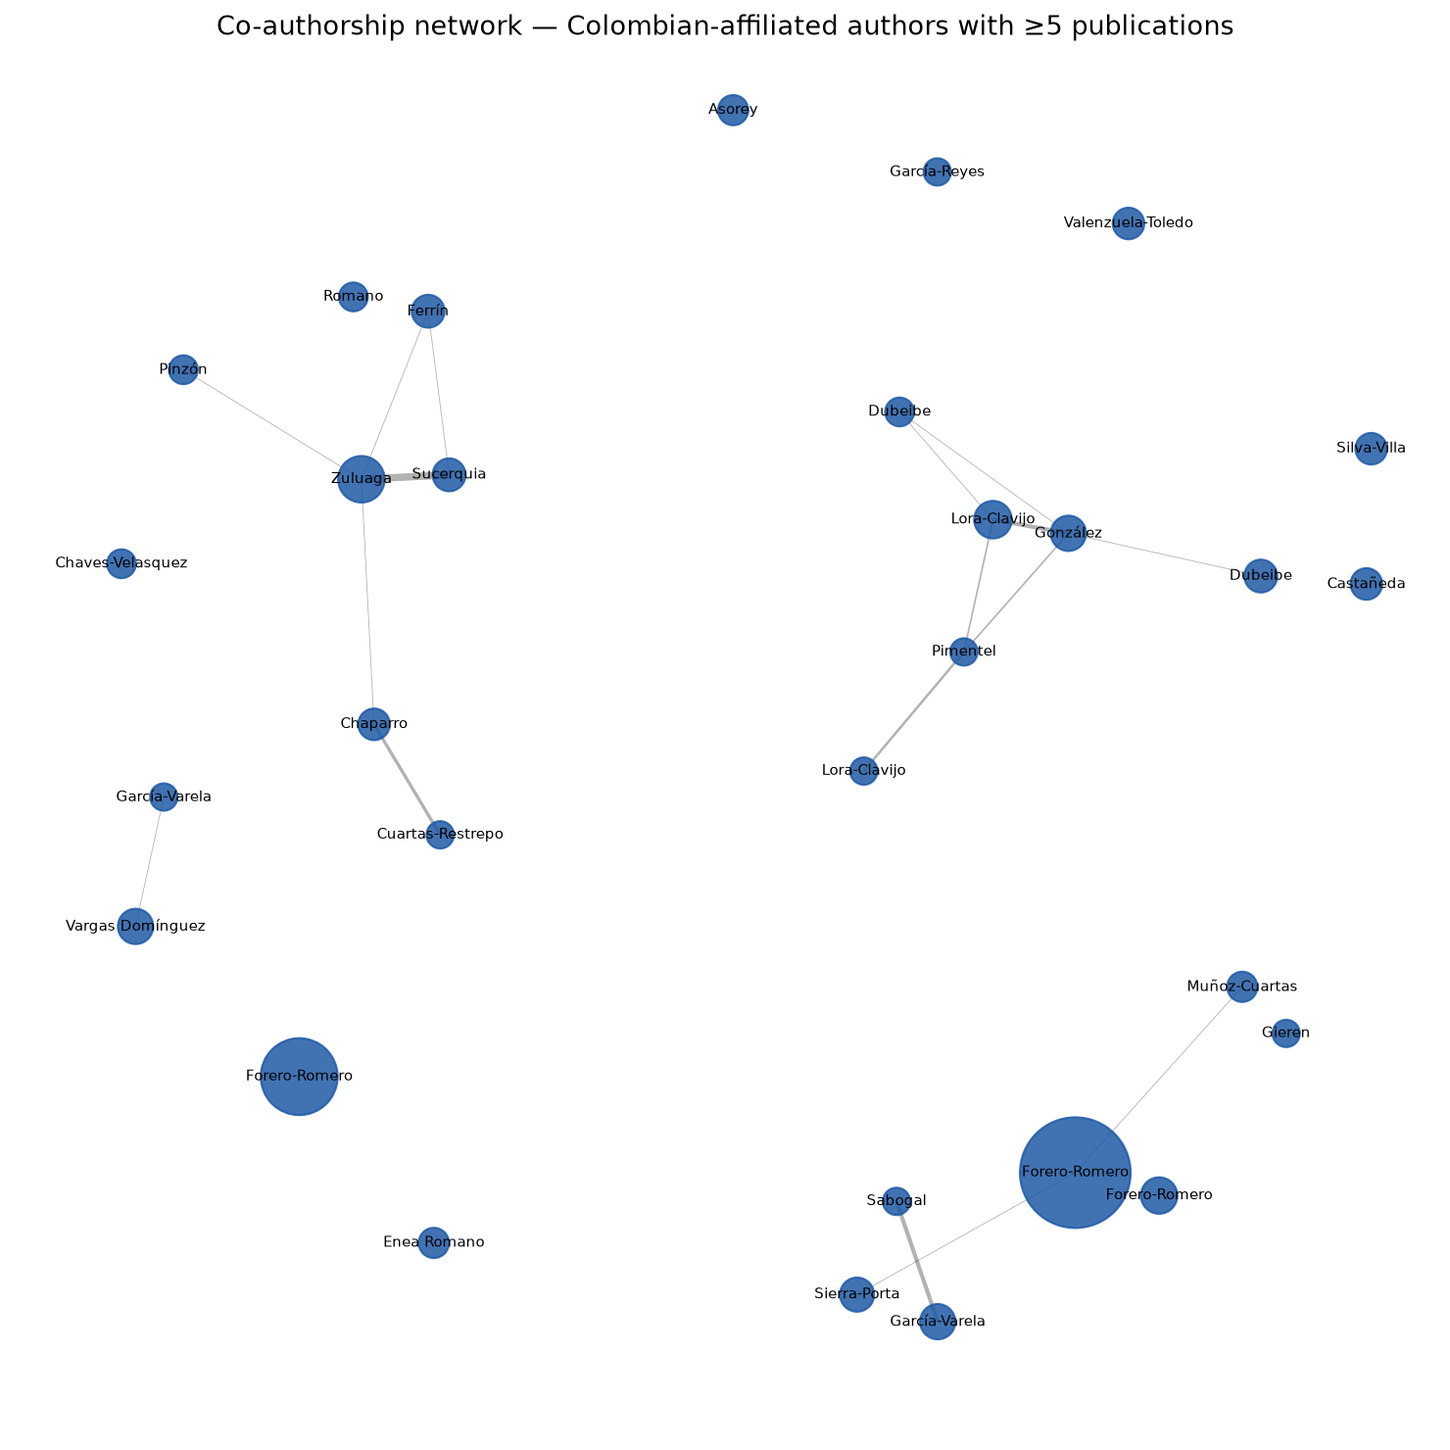
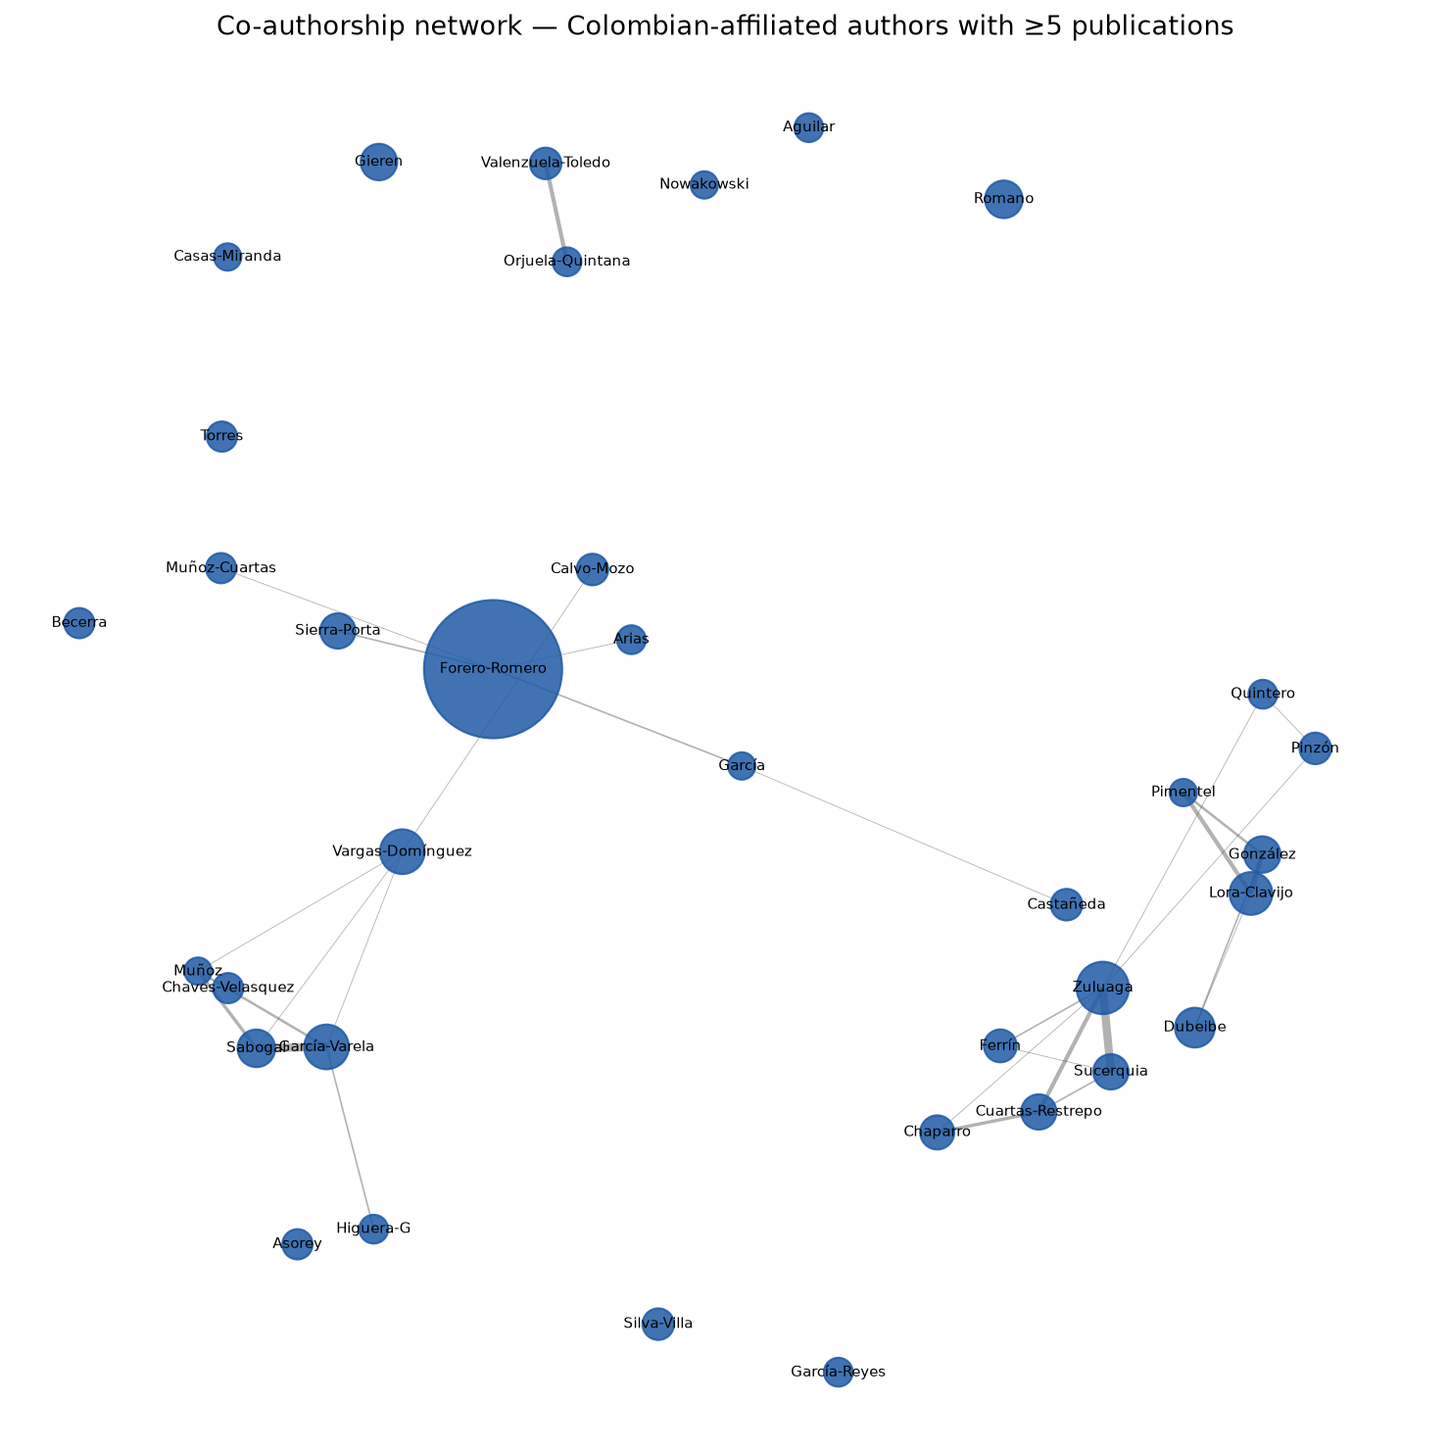
Merge ADS author-name variants that refer to the same person
Adds src/name_matching.py: a heuristic clustering of author-name strings,
scoped to Colombian-affiliated authorships, that merges records differing
only in given-name detail ("Forero-Romero, J. E." vs. "Forero-Romero, Jaime
E."), metadata typos ("Jamie E." vs. "Jaime E."), and inconsistent
compound-surname splits ("Enea Romano, Antonio" vs. "Romano, Antonio Enea").

Wires the resulting canonical names into the top-authors figure/table, the
institutions table's unique-author counts, and the co-authorship network,
which previously showed the same person as several disconnected nodes.

diff --git a/src/plots.py b/src/plots.py
@@ -20,6 +20,8 @@ import networkx as nx
 import numpy as np
 import pandas as pd
 
+from name_matching import build_canonical_name_map
+
 ROOT = Path(__file__).resolve().parent.parent
 PROCESSED = ROOT / "data" / "processed"
 FIG_DIR = ROOT / "output" / "figures"
@@ -40,6 +42,15 @@ plt.rcParams.update(
 def load_data() -> tuple[pd.DataFrame, pd.DataFrame]:
     pubs = pd.read_csv(PROCESSED / "publications.csv")
     authors = pd.read_csv(PROCESSED / "authorships.csv")
+
+    # Merge ADS name-string variants ("Forero-Romero, J. E." / "Forero-Romero,
+    # Jaime E.") that refer to the same person -- see name_matching.py. Only
+    # done among Colombian-affiliated authorships, since that's the subset
+    # used for author-level rankings and the co-authorship network.
+    colombian_names = authors.loc[authors["is_colombian"], "author"].tolist()
+    canonical_map = build_canonical_name_map(colombian_names)
+    authors["author_canonical"] = authors["author"].map(lambda n: canonical_map.get(n, n))
+
     return pubs, authors
 
 
@@ -217,7 +228,11 @@ def fig_top_authors(authors: pd.DataFrame, top_n: int = 20) -> pd.DataFrame:
     # dominated by non-Colombian members of huge international collaborations
     # (DESI, LIGO/Virgo/KAGRA) that a Colombian-affiliated author also belongs to.
     colombian = authors[authors["is_colombian"]]
-    counts = colombian.groupby("author")["bibcode"].nunique().sort_values(ascending=False)
+    counts = (
+        colombian.groupby("author_canonical")["bibcode"]
+        .nunique()
+        .sort_values(ascending=False)
+    )
     top = counts.head(top_n)
 
     fig, ax = plt.subplots(figsize=(8, 7))
@@ -270,7 +285,7 @@ def fig_top_keywords(pubs: pd.DataFrame, top_n: int = 25) -> pd.DataFrame:
 def fig_coauthorship_network(authors: pd.DataFrame, min_pubs: int = 5) -> None:
     """Co-authorship network among prolific, Colombian-affiliated authors."""
     colombian = authors[authors["is_colombian"]]
-    pub_counts = colombian.groupby("author")["bibcode"].nunique()
+    pub_counts = colombian.groupby("author_canonical")["bibcode"].nunique()
     core_authors = set(pub_counts[pub_counts >= min_pubs].index)
     if len(core_authors) < 2:
         return
@@ -279,9 +294,9 @@ def fig_coauthorship_network(authors: pd.DataFrame, min_pubs: int = 5) -> None:
     for author, n in pub_counts[pub_counts >= min_pubs].items():
         g.add_node(author, n_pubs=int(n))
 
-    subset = colombian[colombian["author"].isin(core_authors)]
+    subset = colombian[colombian["author_canonical"].isin(core_authors)]
     for _, group in subset.groupby("bibcode"):
-        coauthors = list(dict.fromkeys(group["author"]))
+        coauthors = list(dict.fromkeys(group["author_canonical"]))
         for i in range(len(coauthors)):
             for j in range(i + 1, len(coauthors)):
                 a, b = coauthors[i], coauthors[j]
@@ -321,7 +336,7 @@ def table_institutions(authors: pd.DataFrame, pubs: pd.DataFrame, top_n: int = 2
     ]
     grouped = colombian.groupby("institution").agg(
         n_publications=("bibcode", "nunique"),
-        n_unique_authors=("author", "nunique"),
+        n_unique_authors=("author_canonical", "nunique"),
     )
     merged = colombian.merge(pubs[["bibcode", "year", "num_citations"]], on="bibcode")
     years = merged.groupby("institution")["year"].agg(first_year="min", last_year="max")
@@ -377,18 +392,20 @@ def table_top_authors(authors: pd.DataFrame, pubs: pd.DataFrame, top_n: int = 25
     colombian = authors[authors["is_colombian"]]
     merged = colombian.merge(pubs[["bibcode", "year", "num_citations"]], on="bibcode")
 
-    grouped = merged.groupby("author").agg(
+    grouped = merged.groupby("author_canonical").agg(
         n_publications=("bibcode", "nunique"),
         first_year=("year", "min"),
         last_year=("year", "max"),
     )
     # Total citations, counted once per unique publication per author.
-    per_pub = merged.drop_duplicates(["author", "bibcode"])
-    total_citations = per_pub.groupby("author")["num_citations"].sum().rename("total_citations")
+    per_pub = merged.drop_duplicates(["author_canonical", "bibcode"])
+    total_citations = (
+        per_pub.groupby("author_canonical")["num_citations"].sum().rename("total_citations")
+    )
 
     primary_inst = (
         merged[merged["institution"].notna()]
-        .groupby("author")["institution"]
+        .groupby("author_canonical")["institution"]
         .agg(lambda s: s.value_counts().idxmax() if len(s) else None)
         .rename("primary_institution")
     )
@@ -398,7 +415,7 @@ def table_top_authors(authors: pd.DataFrame, pubs: pd.DataFrame, top_n: int = 25
         .sort_values("n_publications", ascending=False)
         .head(top_n)
         .reset_index()
-        .rename(columns={"author": "Author"})
+        .rename(columns={"author_canonical": "Author"})
     )
     table["primary_institution"] = table["primary_institution"].fillna("")
     table["total_citations"] = table["total_citations"].fillna(0).astype(int)
@@ -426,7 +443,7 @@ def table_summary(pubs: pd.DataFrame, authors: pd.DataFrame) -> None:
         "Total publications": len(pubs),
         "Year range": f"{int(pubs['year'].min())}–{int(pubs['year'].max())}",
         "Total unique authors": authors["author"].nunique(),
-        "Unique authors with a Colombian affiliation": colombian["author"].nunique(),
+        "Unique authors with a Colombian affiliation": colombian["author_canonical"].nunique(),
         "Unique journals": pubs["journal"].nunique(),
         "Unique Colombian institutions identified": colombian.loc[
             colombian["institution"] != "Other Colombian institution", "institution"

diff --git a/src/name_matching.py b/src/name_matching.py
@@ -1,0 +1,134 @@
+"""Heuristic merging of ADS author-name variants that refer to the same person.
+
+ADS author strings for the same person vary in how much of the given name is
+spelled out -- "Forero-Romero, J. E.", "Forero-Romero, Jaime E.",
+"Forero-Romero, Jaime" -- and occasionally carry a typo in the source
+metadata ("Jamie E." for "Jaime E."). There is no author-id (ORCID) in this
+export to disambiguate properly, so this uses a standard bibliometric
+heuristic instead: two name strings are merged when they share the same
+(accent-stripped) surname and one's initials are a prefix of the other's.
+This is conservative by construction (it never merges different surnames or
+conflicting initials) but can still occasionally over-merge two different
+people who share a surname and have only an initial on record, or
+under-merge someone who publishes under two different surname spellings.
+"""
+from __future__ import annotations
+
+import unicodedata
+from collections import defaultdict
+
+
+def _strip_accents(text: str) -> str:
+    decomposed = unicodedata.normalize("NFKD", text)
+    return "".join(c for c in decomposed if not unicodedata.combining(c))
+
+
+def _split_name(name: str) -> tuple[str, str]:
+    surname, _, given = name.partition(",")
+    return surname.strip(), given.strip()
+
+
+def _normalize_surname(surname: str) -> str:
+    surname = _strip_accents(surname).lower()
+    surname = surname.replace("-", " ").replace(".", " ")
+    return " ".join(surname.split())
+
+
+def _initials(given: str) -> str:
+    given = _strip_accents(given).upper()
+    words = given.replace("-", " ").replace(".", " ").split()
+    return "".join(w[0] for w in words if w)
+
+
+def _full_word_tokens(name: str) -> frozenset[str]:
+    """Spelled-out (non-initial) name words, regardless of surname/given split.
+
+    Catches compound-surname records where ADS puts a different split point
+    each time -- e.g. "Enea Romano, Antonio" (surname "Enea Romano") vs.
+    "Romano, Antonio Enea" (surname "Romano" only) both yield
+    {enea, romano, antonio}.
+    """
+    surname, given = _split_name(name)
+    text = _strip_accents(f"{surname} {given}").lower()
+    words = text.replace("-", " ").replace(".", " ").split()
+    return frozenset(w for w in words if len(w) > 1)
+
+
+class _UnionFind:
+    def __init__(self, items: list[str]) -> None:
+        self.parent = {item: item for item in items}
+
+    def find(self, x: str) -> str:
+        while self.parent[x] != x:
+            self.parent[x] = self.parent[self.parent[x]]
+            x = self.parent[x]
+        return x
+
+    def union(self, a: str, b: str) -> None:
+        ra, rb = self.find(a), self.find(b)
+        if ra != rb:
+            self.parent[ra] = rb
+
+
+def build_canonical_name_map(names: list[str]) -> dict[str, str]:
+    """Map each raw author-name string to a canonical name for its cluster.
+
+    Names are grouped by normalized surname, then unioned within each group
+    when one's initials are a prefix of the other's. The canonical name for
+    a cluster is its member with the most fully spelled-out given name.
+    """
+    unique_names = list(dict.fromkeys(names))
+    parsed = {name: _split_name(name) for name in unique_names}
+
+    by_surname: dict[str, list[str]] = defaultdict(list)
+    for name, (surname, _) in parsed.items():
+        by_surname[_normalize_surname(surname)].append(name)
+
+    uf = _UnionFind(unique_names)
+    for group in by_surname.values():
+        keyed = [(name, _initials(parsed[name][1])) for name in group]
+        for i in range(len(keyed)):
+            name_a, initials_a = keyed[i]
+            for j in range(i + 1, len(keyed)):
+                name_b, initials_b = keyed[j]
+                if initials_a.startswith(initials_b) or initials_b.startswith(initials_a):
+                    uf.union(name_a, name_b)
+
+    # Second pass: merge records that spell out the same full name words but
+    # split them differently between surname and given name (compound
+    # surnames written inconsistently, e.g. "Enea Romano, Antonio" vs.
+    # "Romano, Antonio Enea"). Require >= 2 shared full words to keep this
+    # conservative.
+    by_tokens: dict[frozenset[str], list[str]] = defaultdict(list)
+    for name in unique_names:
+        tokens = _full_word_tokens(name)
+        if len(tokens) >= 2:
+            by_tokens[tokens].append(name)
+    for group in by_tokens.values():
+        for name in group[1:]:
+            uf.union(group[0], name)
+
+    clusters: dict[str, list[str]] = defaultdict(list)
+    for name in unique_names:
+        clusters[uf.find(name)].append(name)
+
+    canonical_map: dict[str, str] = {}
+    for members in clusters.values():
+        canonical = max(members, key=_completeness_key)
+        for name in members:
+            canonical_map[name] = canonical
+    return canonical_map
+
+
+def _completeness_key(name: str) -> tuple[int, int, str]:
+    """Sort key preferring the most fully spelled-out given name.
+
+    Ranks by how many full (non-initial) words the given name has -- not by
+    raw string length, since a garbled ADS split like "Acevedo, D. D.
+    Herrera" can be a longer string than the correct "Herrera Acevedo,
+    Daniel David" without being more complete.
+    """
+    _, given = _split_name(name)
+    words = given.replace("-", " ").replace(".", " ").split()
+    full_word_count = sum(1 for w in words if len(w) > 1)
+    return (full_word_count, len(given), name)

diff --git a/output/tables/table2_top_authors.md b/output/tables/table2_top_authors.md
@@ -2,28 +2,28 @@
 
 | Author | n_publications | first_year | last_year | total_citations | primary_institution |
 | --- | --- | --- | --- | --- | --- |
-| Forero-Romero, J. E. | 143 | 2013 | 2026 | 7236 | Universidad de los Andes |
-| Forero-Romero, Jaime E. | 67 | 2014 | 2026 | 2846 | Universidad de los Andes |
-| Zuluaga, Jorge I. | 22 | 2013 | 2025 | 393 | Universidad de Antioquia |
-| Lora-Clavijo, F. D. | 13 | 2015 | 2026 | 182 | Universidad Industrial de Santander |
-| Forero-Romero, Jaime | 12 | 2013 | 2026 | 327 | Universidad de los Andes |
-| González, Guillermo A. | 11 | 2006 | 2018 | 175 | Universidad Industrial de Santander |
-| García-Varela, Alejandro | 11 | 2009 | 2026 | 99 | Universidad de los Andes |
-| Vargas Domínguez, S. | 11 | 2012 | 2023 | 276 | Universidad Nacional de Colombia |
-| Sierra-Porta, D. | 10 | 2022 | 2026 | 130 | Universidad Tecnológica de Bolívar |
-| Dubeibe, Fredy L. | 9 | 2018 | 2026 | 31 | Universidad de los Llanos |
+| Forero-Romero, Jamie E. | 225 | 2013 | 2026 | 10633 | Universidad de los Andes |
+| Zuluaga, Jorge I. | 29 | 2013 | 2025 | 431 | Universidad de Antioquia |
+| Vargas-Domínguez, Santiago | 20 | 2012 | 2026 | 470 | Universidad Nacional de Colombia |
+| García-Varela, José-Alejandro | 20 | 2001 | 2026 | 224 | Universidad de los Andes |
+| Lora-Clavijo, Fabio D. | 18 | 2015 | 2026 | 233 | Universidad Industrial de Santander |
+| Dubeibe, Fredy L. | 15 | 2017 | 2026 | 68 | Universidad de los Llanos |
+| Sabogal, Beatriz E. | 13 | 2009 | 2026 | 100 | Universidad de los Andes |
+| Romano, Antonio Enea | 13 | 2013 | 2025 | 299 | Universidad de Antioquia |
+| González, Guillermo A. | 12 | 2006 | 2018 | 185 | Universidad Industrial de Santander |
+| Gieren, Wolfgang P. | 12 | 1980 | 1992 | 224 | Universidad Nacional de Colombia |
+| Cuartas-Restrepo, Pablo Andrés | 11 | 2012 | 2026 | 114 | Universidad de Antioquia |
+| Sucerquia, Mario Alexander | 11 | 2015 | 2021 | 213 | Universidad de Antioquia |
+| Sierra-Porta, David | 11 | 2022 | 2026 | 476 | Universidad Tecnológica de Bolívar |
+| Chaparro, Germán | 10 | 2023 | 2026 | 70 | Universidad de Antioquia |
 | Ferrín, Ignacio | 9 | 2012 | 2021 | 72 | Universidad de Antioquia |
-| Sucerquia, Mario | 9 | 2015 | 2021 | 205 | Universidad de Antioquia |
-| Castañeda, Leonardo | 8 | 2011 | 2026 | 49 | Universidad Nacional de Colombia |
+| Calvo-Mozo, Benjamín | 8 | 2012 | 2026 | 117 | Universidad Nacional de Colombia |
 | Silva-Villa, E. | 8 | 2014 | 2024 | 493 | Universidad de Antioquia |
-| Chaparro, Germán | 8 | 2023 | 2026 | 66 | Universidad de Antioquia |
 | Valenzuela-Toledo, César A. | 8 | 2012 | 2025 | 94 | Universidad del Valle |
-| Enea Romano, Antonio | 7 | 2017 | 2021 | 83 | Universidad de Antioquia |
-| Muñoz-Cuartas, J. C. | 7 | 2014 | 2025 | 211 | Universidad de Antioquia |
+| Castañeda, Leonardo | 8 | 2011 | 2026 | 49 | Universidad Nacional de Colombia |
+| Pinzón, Giovanni | 8 | 2010 | 2024 | 303 | Universidad Nacional de Colombia |
+| Chaves-Velasquez, Leonardo | 7 | 2019 | 2023 | 117 | Universidad de Nariño |
 | Asorey, H. | 7 | 2017 | 2019 | 858 | Universidad Industrial de Santander |
-| Dubeibe, F. L. | 6 | 2017 | 2024 | 37 | Universidad de los Llanos |
-| Pinzón, Giovanni | 6 | 2010 | 2024 | 284 | Universidad Nacional de Colombia |
-| Romano, Antonio Enea | 6 | 2013 | 2025 | 216 | Universidad de Antioquia |
-| Chaves-Velasquez, Leonardo | 6 | 2020 | 2023 | 112 | Universidad de Nariño |
-| Pimentel, Oscar M. | 5 | 2016 | 2023 | 71 | Universidad Industrial de Santander |
-| García-Reyes, Gonzalo | 5 | 2011 | 2025 | 18 | Universidad Tecnológica de Pereira |
+| Muñoz-Cuartas, J. C. | 7 | 2014 | 2025 | 211 | Universidad de Antioquia |
+| Becerra, Laura M. | 7 | 2019 | 2023 | 137 | Universidad Industrial de Santander |
+| Torres, Sergio | 7 | 1994 | 2013 | 54 | Universidad de los Andes |

diff --git a/README.md b/README.md
@@ -68,14 +68,26 @@ affiliation, so they aren't swamped by the hundreds of non-Colombian members
 of huge international collaborations (DESI, LIGO/Virgo/KAGRA, Pierre Auger)
 that a Colombian group also belongs to.
 
+## Author name matching
+
+There's no author-id (ORCID) in this export, and the same person shows up
+under several ADS name-string variants across records — different levels of
+given-name detail ("Forero-Romero, J. E." vs. "Forero-Romero, Jaime E."),
+occasional metadata typos ("Jamie E." for "Jaime E."), and inconsistent
+compound-surname splits ("Enea Romano, Antonio" vs. "Romano, Antonio Enea").
+`src/name_matching.py` merges these heuristically among Colombian-affiliated
+authorships: names with the same surname are merged when one's initials are
+a prefix of the other's, and names are also merged when they spell out the
+same full given/surname words regardless of which side of the comma they
+land on. The cluster's most fully-spelled-out variant is used as the display
+name. This is conservative by construction but can still occasionally
+over-merge two different people who share a surname and are only ever
+recorded with a bare initial, or under-merge someone who publishes under
+genuinely different name spellings.
+
 ## Known limitations
 
-- **Author name disambiguation is not attempted.** The same person can appear
-  under several ADS name-string variants (initials vs. full name, occasional
-  typos in the source metadata), so per-author publication/citation counts
-  and the co-authorship network undercount some individuals. Resolving this
-  properly needs ORCID-linked ADS records, which aren't in a plain
-  custom-format export.
+
 - **Institution matching is substring-based**, not a controlled ROR/GRID
   lookup, and Colombian secondary schools / non-academic institutions that
   happen to add "Colombia" to their affiliation string are counted the same
@@ -112,6 +124,7 @@ h-index per institution), `table2_top_authors`, `table3_journals`,
 
 As of the current data snapshot: 724 publications (1980–2027, including
 in-press/forthcoming items already assigned a bibcode), spanning 57 journals,
-about 500 unique authors with a Colombian affiliation, 26,550 total citations,
-and an overall h-index of 65. The most-cited paper is the 2017 multi-messenger
-neutron-star-merger discovery (GW170817), with 4,140 citations.
+about 380 unique authors (after name matching) with a Colombian affiliation,
+26,550 total citations, and an overall h-index of 65. The most-cited paper is
+the 2017 multi-messenger neutron-star-merger discovery (GW170817), with 4,140
+citations.

diff --git a/output/tables/table1_institutions.md b/output/tables/table1_institutions.md
@@ -2,24 +2,24 @@
 
 | Institution | n_publications | n_unique_authors | first_year | last_year | total_citations | h_index |
 | --- | --- | --- | --- | --- | --- | --- |
-| Universidad de los Andes | 298 | 89 | 1980 | 2026 | 12603 | 47 |
-| Universidad de Antioquia | 99 | 90 | 2005 | 2026 | 2098 | 22 |
-| Universidad Nacional de Colombia | 99 | 119 | 1980 | 2027 | 1313 | 19 |
-| Universidad Industrial de Santander | 67 | 50 | 2006 | 2026 | 1950 | 21 |
-| Universidad del Valle | 19 | 18 | 2012 | 2025 | 220 | 8 |
-| Universidad Tecnológica de Pereira | 17 | 14 | 1997 | 2026 | 112 | 5 |
-| Universidad de los Llanos | 14 | 2 | 2018 | 2026 | 42 | 4 |
-| Universidad de Nariño | 12 | 6 | 2015 | 2026 | 187 | 7 |
-| Universidad ECCI | 9 | 9 | 2017 | 2026 | 363 | 5 |
-| Universidad Tecnológica de Bolívar | 8 | 8 | 2022 | 2026 | 34 | 3 |
-| Universidad Militar Nueva Granada | 8 | 5 | 2017 | 2026 | 103 | 4 |
+| Universidad de los Andes | 298 | 66 | 1980 | 2026 | 12603 | 47 |
+| Universidad de Antioquia | 99 | 71 | 2005 | 2026 | 2098 | 22 |
+| Universidad Nacional de Colombia | 99 | 91 | 1980 | 2027 | 1313 | 19 |
+| Universidad Industrial de Santander | 67 | 38 | 2006 | 2026 | 1950 | 21 |
+| Universidad del Valle | 19 | 16 | 2012 | 2025 | 220 | 8 |
+| Universidad Tecnológica de Pereira | 17 | 12 | 1997 | 2026 | 112 | 5 |
+| Universidad de los Llanos | 14 | 1 | 2018 | 2026 | 42 | 4 |
+| Universidad de Nariño | 12 | 5 | 2015 | 2026 | 187 | 7 |
+| Universidad ECCI | 9 | 6 | 2017 | 2026 | 363 | 5 |
+| Universidad Tecnológica de Bolívar | 8 | 6 | 2022 | 2026 | 34 | 3 |
+| Universidad Militar Nueva Granada | 8 | 4 | 2017 | 2026 | 103 | 4 |
 | Universidad del Atlántico | 5 | 6 | 1997 | 2023 | 25 | 2 |
-| Fundación Universitaria Konrad Lorenz | 5 | 3 | 2016 | 2022 | 643 | 4 |
-| Universidad de Medellín | 5 | 4 | 2010 | 2016 | 192 | 5 |
+| Fundación Universitaria Konrad Lorenz | 5 | 2 | 2016 | 2022 | 643 | 4 |
+| Universidad de Medellín | 5 | 3 | 2010 | 2016 | 192 | 5 |
 | Universidad Distrital Francisco José de Caldas | 5 | 7 | 2019 | 2022 | 18 | 2 |
 | Universidad Antonio Nariño | 4 | 4 | 2024 | 2026 | 12 | 2 |
 | Universidad EAFIT | 3 | 4 | 2019 | 2026 | 14 | 2 |
-| Universidad de Investigación y Desarrollo | 3 | 2 | 2025 | 2025 | 15 | 3 |
+| Universidad de Investigación y Desarrollo | 3 | 1 | 2025 | 2025 | 15 | 3 |
 | Pontificia Universidad Javeriana | 3 | 4 | 2018 | 2022 | 9 | 2 |
 | COLCIENCIAS / MinCiencias | 3 | 2 | 2015 | 2021 | 4 | 1 |
 | Universidad El Bosque | 3 | 2 | 2023 | 2026 | 474 | 2 |

diff --git a/output/tables/summary_stats.md b/output/tables/summary_stats.md
@@ -3,7 +3,7 @@
 - **Total publications:** 724
 - **Year range:** 1980–2027
 - **Total unique authors:** 4844
-- **Unique authors with a Colombian affiliation:** 489
+- **Unique authors with a Colombian affiliation:** 381
 - **Unique journals:** 57
 - **Unique Colombian institutions identified:** 33
 - **Mean authors per publication:** 32.59
